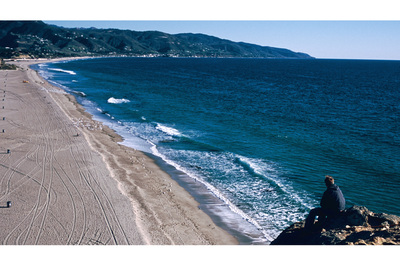
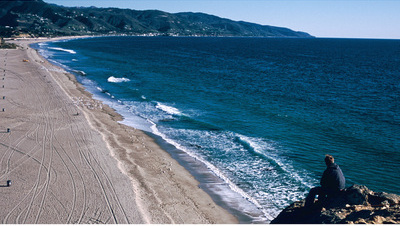
arranged vertical photos and cropped some

diff --git a/photography.md b/photography.md
@@ -9,6 +9,12 @@ permalink: /photography
 <a href="/images/photography/panorama/panorama3.jpg" data-imagelightbox="a"><img src="/images/photography/panorama/panorama3.jpg" alt="" /></a>
 
 <div class="photobox">
+
+<a href="/images/photography/full/photo23.jpg" data-imagelightbox="a"><img src="/images/photography/thumb/photo23.jpg" alt="" /></a>
+<a href="/images/photography/full/photo26.jpg" data-imagelightbox="a"><img src="/images/photography/thumb/photo26.jpg" alt="" /></a>
+<a href="/images/photography/full/photo41.jpg" data-imagelightbox="a"><img src="/images/photography/thumb/photo41.jpg" alt="" /></a>
+<a href="/images/photography/full/photo53.jpg" data-imagelightbox="a"><img src="/images/photography/thumb/photo53.jpg" alt="" /></a>
+
 <a href="/images/photography/full/photo1.jpg" data-imagelightbox="a"><img src="/images/photography/thumb/photo1.jpg" alt="" /></a>
 <a href="/images/photography/full/photo2.jpg" data-imagelightbox="a"><img src="/images/photography/thumb/photo2.jpg" alt="" /></a>
 <a href="/images/photography/full/photo3.jpg" data-imagelightbox="a"><img src="/images/photography/thumb/photo3.jpg" alt="" /></a>
@@ -31,10 +37,10 @@ permalink: /photography
 <a href="/images/photography/full/photo20.jpg" data-imagelightbox="a"><img src="/images/photography/thumb/photo20.jpg" alt="" /></a>
 <a href="/images/photography/full/photo21.jpg" data-imagelightbox="a"><img src="/images/photography/thumb/photo21.jpg" alt="" /></a>
 <a href="/images/photography/full/photo22.jpg" data-imagelightbox="a"><img src="/images/photography/thumb/photo22.jpg" alt="" /></a>
-<a href="/images/photography/full/photo23.jpg" data-imagelightbox="a"><img src="/images/photography/thumb/photo23.jpg" alt="" /></a>
+
 <a href="/images/photography/full/photo24.jpg" data-imagelightbox="a"><img src="/images/photography/thumb/photo24.jpg" alt="" /></a>
 <a href="/images/photography/full/photo25.jpg" data-imagelightbox="a"><img src="/images/photography/thumb/photo25.jpg" alt="" /></a>
-<a href="/images/photography/full/photo26.jpg" data-imagelightbox="a"><img src="/images/photography/thumb/photo26.jpg" alt="" /></a>
+
 <a href="/images/photography/full/photo27.jpg" data-imagelightbox="a"><img src="/images/photography/thumb/photo27.jpg" alt="" /></a>
 <a href="/images/photography/full/photo28.jpg" data-imagelightbox="a"><img src="/images/photography/thumb/photo28.jpg" alt="" /></a>
 <a href="/images/photography/full/photo29.jpg" data-imagelightbox="a"><img src="/images/photography/thumb/photo29.jpg" alt="" /></a>
@@ -49,7 +55,7 @@ permalink: /photography
 <a href="/images/photography/full/photo38.jpg" data-imagelightbox="a"><img src="/images/photography/thumb/photo38.jpg" alt="" /></a>
 <a href="/images/photography/full/photo39.jpg" data-imagelightbox="a"><img src="/images/photography/thumb/photo39.jpg" alt="" /></a>
 <a href="/images/photography/full/photo40.jpg" data-imagelightbox="a"><img src="/images/photography/thumb/photo40.jpg" alt="" /></a>
-<a href="/images/photography/full/photo41.jpg" data-imagelightbox="a"><img src="/images/photography/thumb/photo41.jpg" alt="" /></a>
+
 <a href="/images/photography/full/photo42.jpg" data-imagelightbox="a"><img src="/images/photography/thumb/photo42.jpg" alt="" /></a>
 <a href="/images/photography/full/photo43.jpg" data-imagelightbox="a"><img src="/images/photography/thumb/photo43.jpg" alt="" /></a>
 <a href="/images/photography/full/photo44.jpg" data-imagelightbox="a"><img src="/images/photography/thumb/photo44.jpg" alt="" /></a>
@@ -61,10 +67,10 @@ permalink: /photography
 <a href="/images/photography/full/photo50.jpg" data-imagelightbox="a"><img src="/images/photography/thumb/photo50.jpg" alt="" /></a>
 <a href="/images/photography/full/photo51.jpg" data-imagelightbox="a"><img src="/images/photography/thumb/photo51.jpg" alt="" /></a>
 <a href="/images/photography/full/photo52.jpg" data-imagelightbox="a"><img src="/images/photography/thumb/photo52.jpg" alt="" /></a>
-<a href="/images/photography/full/photo53.jpg" data-imagelightbox="a"><img src="/images/photography/thumb/photo53.jpg" alt="" /></a>
+
 <a href="/images/photography/full/photo54.jpg" data-imagelightbox="a"><img src="/images/photography/thumb/photo54.jpg" alt="" /></a>
 <a href="/images/photography/full/photo55.jpg" data-imagelightbox="a"><img src="/images/photography/thumb/photo55.jpg" alt="" /></a>
-<a href="/images/photography/full/photo56.jpg" data-imagelightbox="a"><img src="/images/photography/thumb/photo56.jpg" alt="" /></a>
+
 <a href="/images/photography/full/photo57.jpg" data-imagelightbox="a"><img src="/images/photography/thumb/photo57.jpg" alt="" /></a>
 
 
